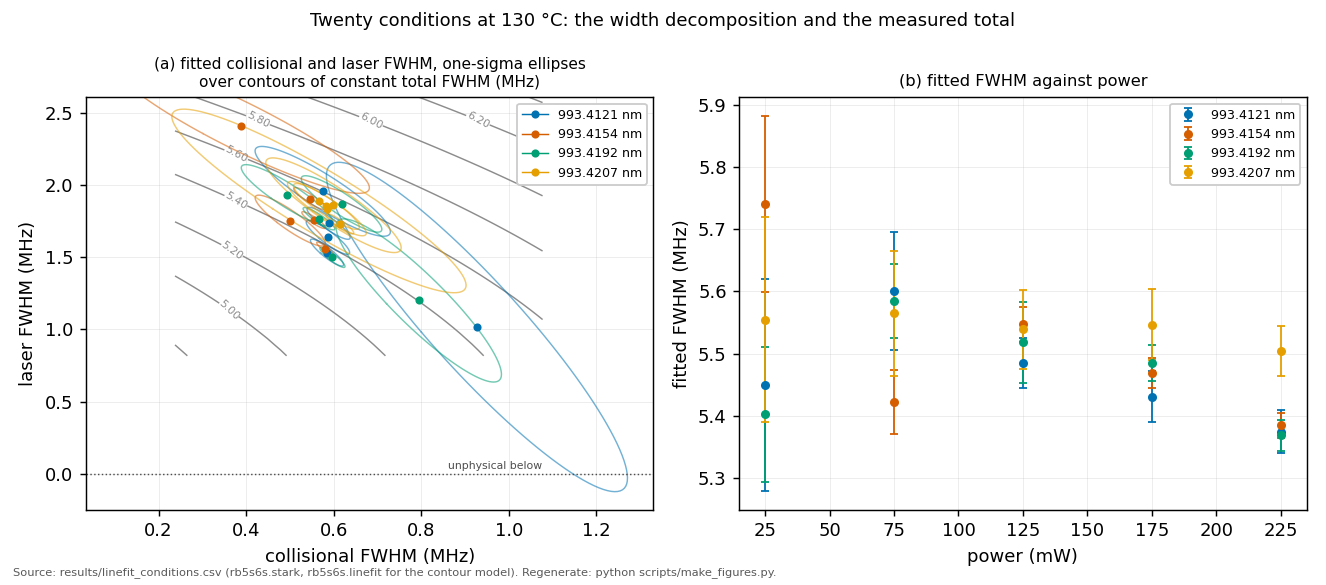
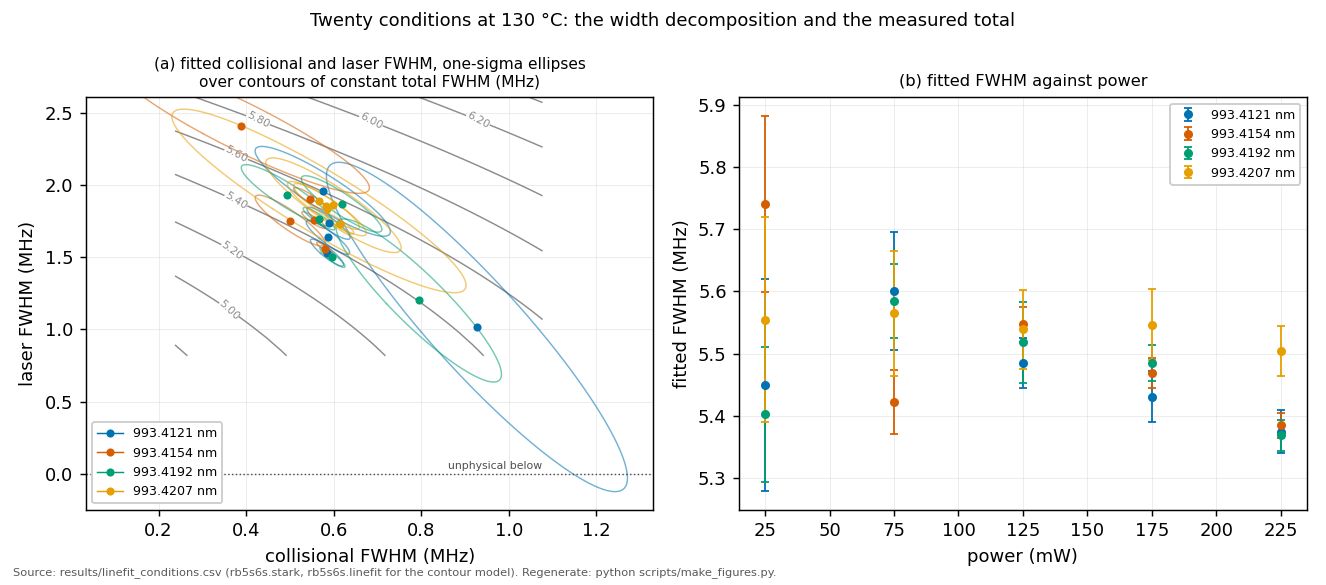
Fix two figures that only failed on the CI runner's font metrics
The mirror's CI failed on both new pushes, and the cause was not the
portability bug already fixed: two pre-existing figures sit close
enough to a boundary that a few pixels of font-metric difference
between this machine and the Linux runner crosses the guard's
threshold locally by a comfortable margin and fails on GitHub.

fig15's "planning envelope adopted in 2025" label is centred on the
rightmost of three points on a log axis, at 86 percent of the range,
and a centred label there overflows the right spine by exactly a few
pixels depending on font hinting. Anchoring that one label's right
edge to its point instead of centring it puts it in the open decade to
its left, which clears by over a hundred pixels rather than a handful.

fig10's panel (a) legend used automatic placement, which put it over
the 6.00 and 6.20 contour labels in the panel's open upper-right
corner. Pinned to the lower-left corner instead, which has no contour
label at any campaign condition.

Both were found by reading the actual CI log rather than assuming the
portability fix was the whole story, since the run-level status stayed
"in progress" after the 3.11 job had already completed and failed.

Changed region(s): [[0.371, 0.1538, 0.4947, 0.3385], [0.0618, 0.7077, 0.1855, 0.8615]]

diff --git a/scripts/make_figures.py b/scripts/make_figures.py
@@ -1054,7 +1054,12 @@ def fig_degeneracy_vs_observable():
     ax1.set_title("(a) fitted collisional and laser FWHM, one-sigma ellipses\n"
                   "over contours of constant total FWHM (MHz)",
                   fontsize=8.5)
-    ax1.legend(fontsize=7, framealpha=1.0, frameon=True)
+    # Pinned rather than "best": auto-placement put the legend over the 6.00
+    # and 6.20 contour labels in the panel's open upper-right corner, which
+    # cleared locally by a few pixels and did not on the CI runner's slightly
+    # different font metrics. The lower-left corner has no contour label at
+    # any campaign condition.
+    ax1.legend(fontsize=7, framealpha=1.0, frameon=True, loc="lower left")
     ax1.grid(alpha=0.25, lw=0.5)
 
     # --- RIGHT: the observable ------------------------------------------
@@ -2429,8 +2434,16 @@ def fig_drift_story():
     ys = [2, 1, 0]
     for y, (rate, left, right) in zip(ys, regimes):
         ax.plot([rate], [y], "o", ms=9, color="#0072B2")
-        ax.annotate(left, xy=(rate, y), xytext=(0, 12), textcoords="offset points",
-                    ha="center", fontsize=7.5)
+        # Centred, except for the point nearest the right spine (the envelope
+        # rate sits at 86% of the log axis), which centred a wide label into
+        # the spine: it cleared by 2 px on this machine's font metrics and did
+        # not on the CI runner's. Anchoring that one's right edge to the point
+        # gives it the open decade to its left instead of the closed edge to
+        # its right.
+        near_right_edge = rate > 1.0
+        ax.annotate(left, xy=(rate, y), xytext=(-4 if near_right_edge else 0, 12),
+                    textcoords="offset points",
+                    ha="right" if near_right_edge else "center", fontsize=7.5)
         ax.annotate(right.replace("\\n", "\n"), xy=(rate, y), xytext=(0, -13),
                     textcoords="offset points", ha="center", va="top", fontsize=7.5)
     ax.set_xscale("log")
